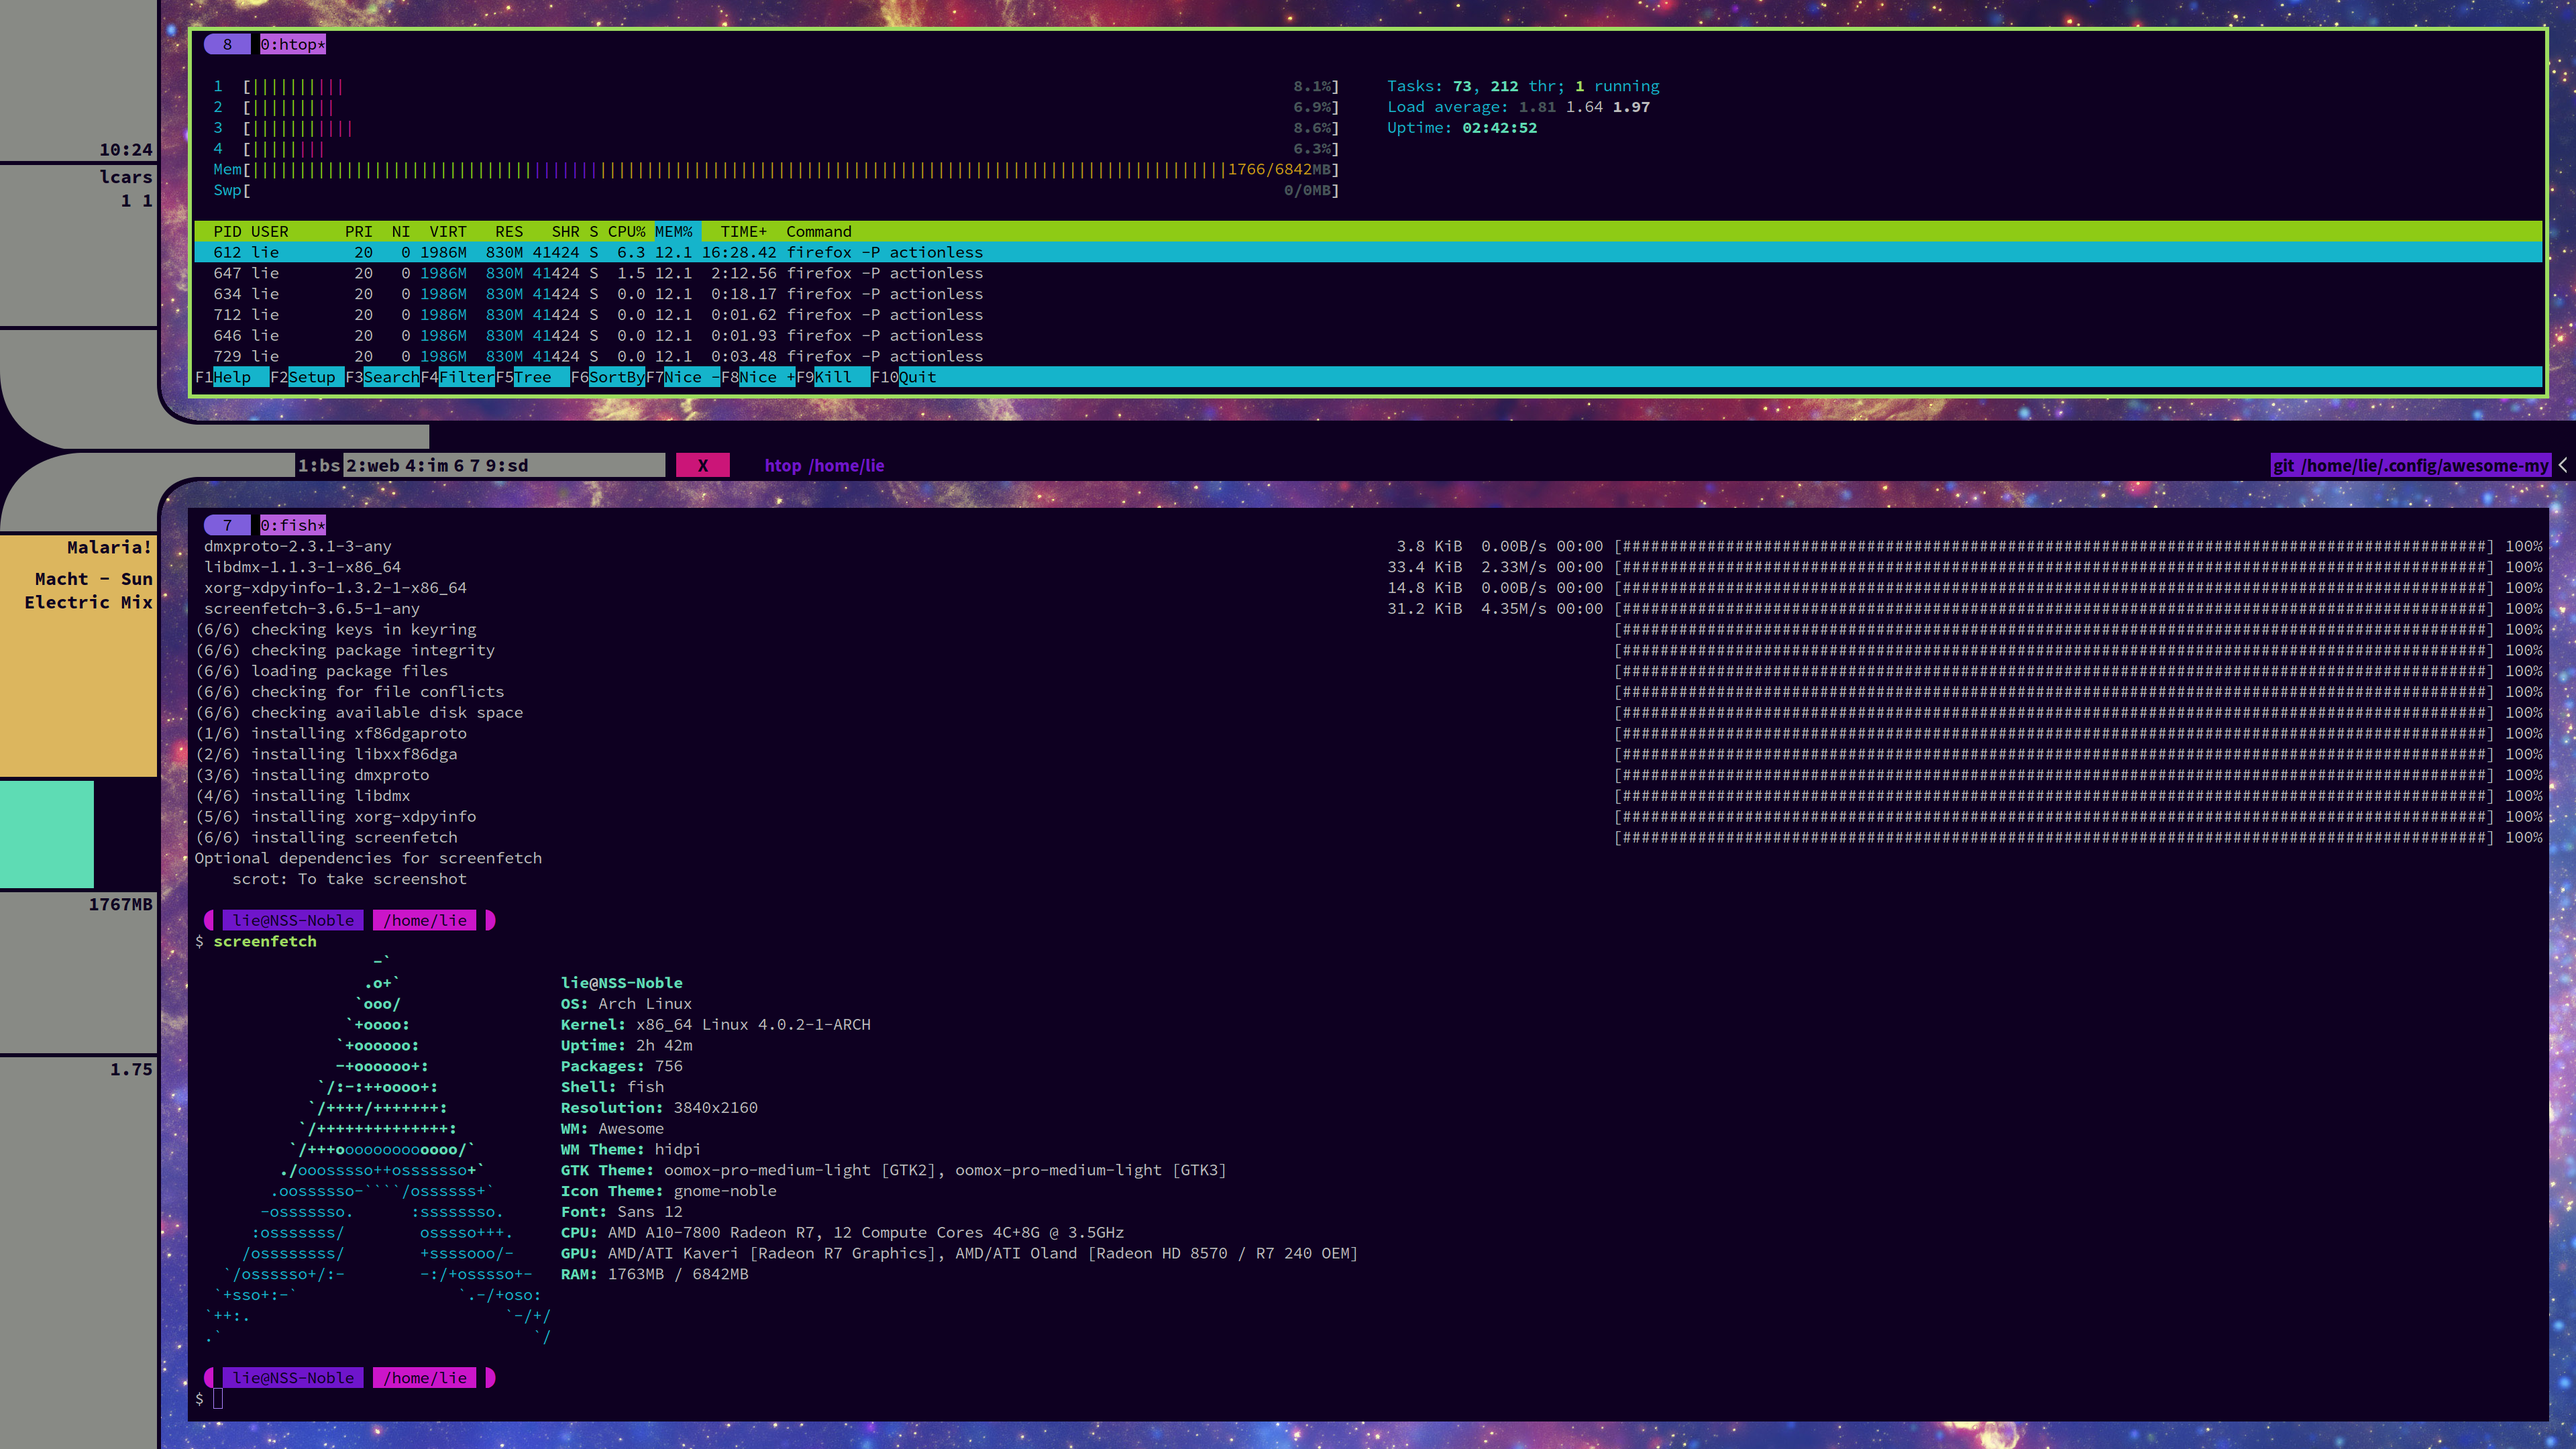
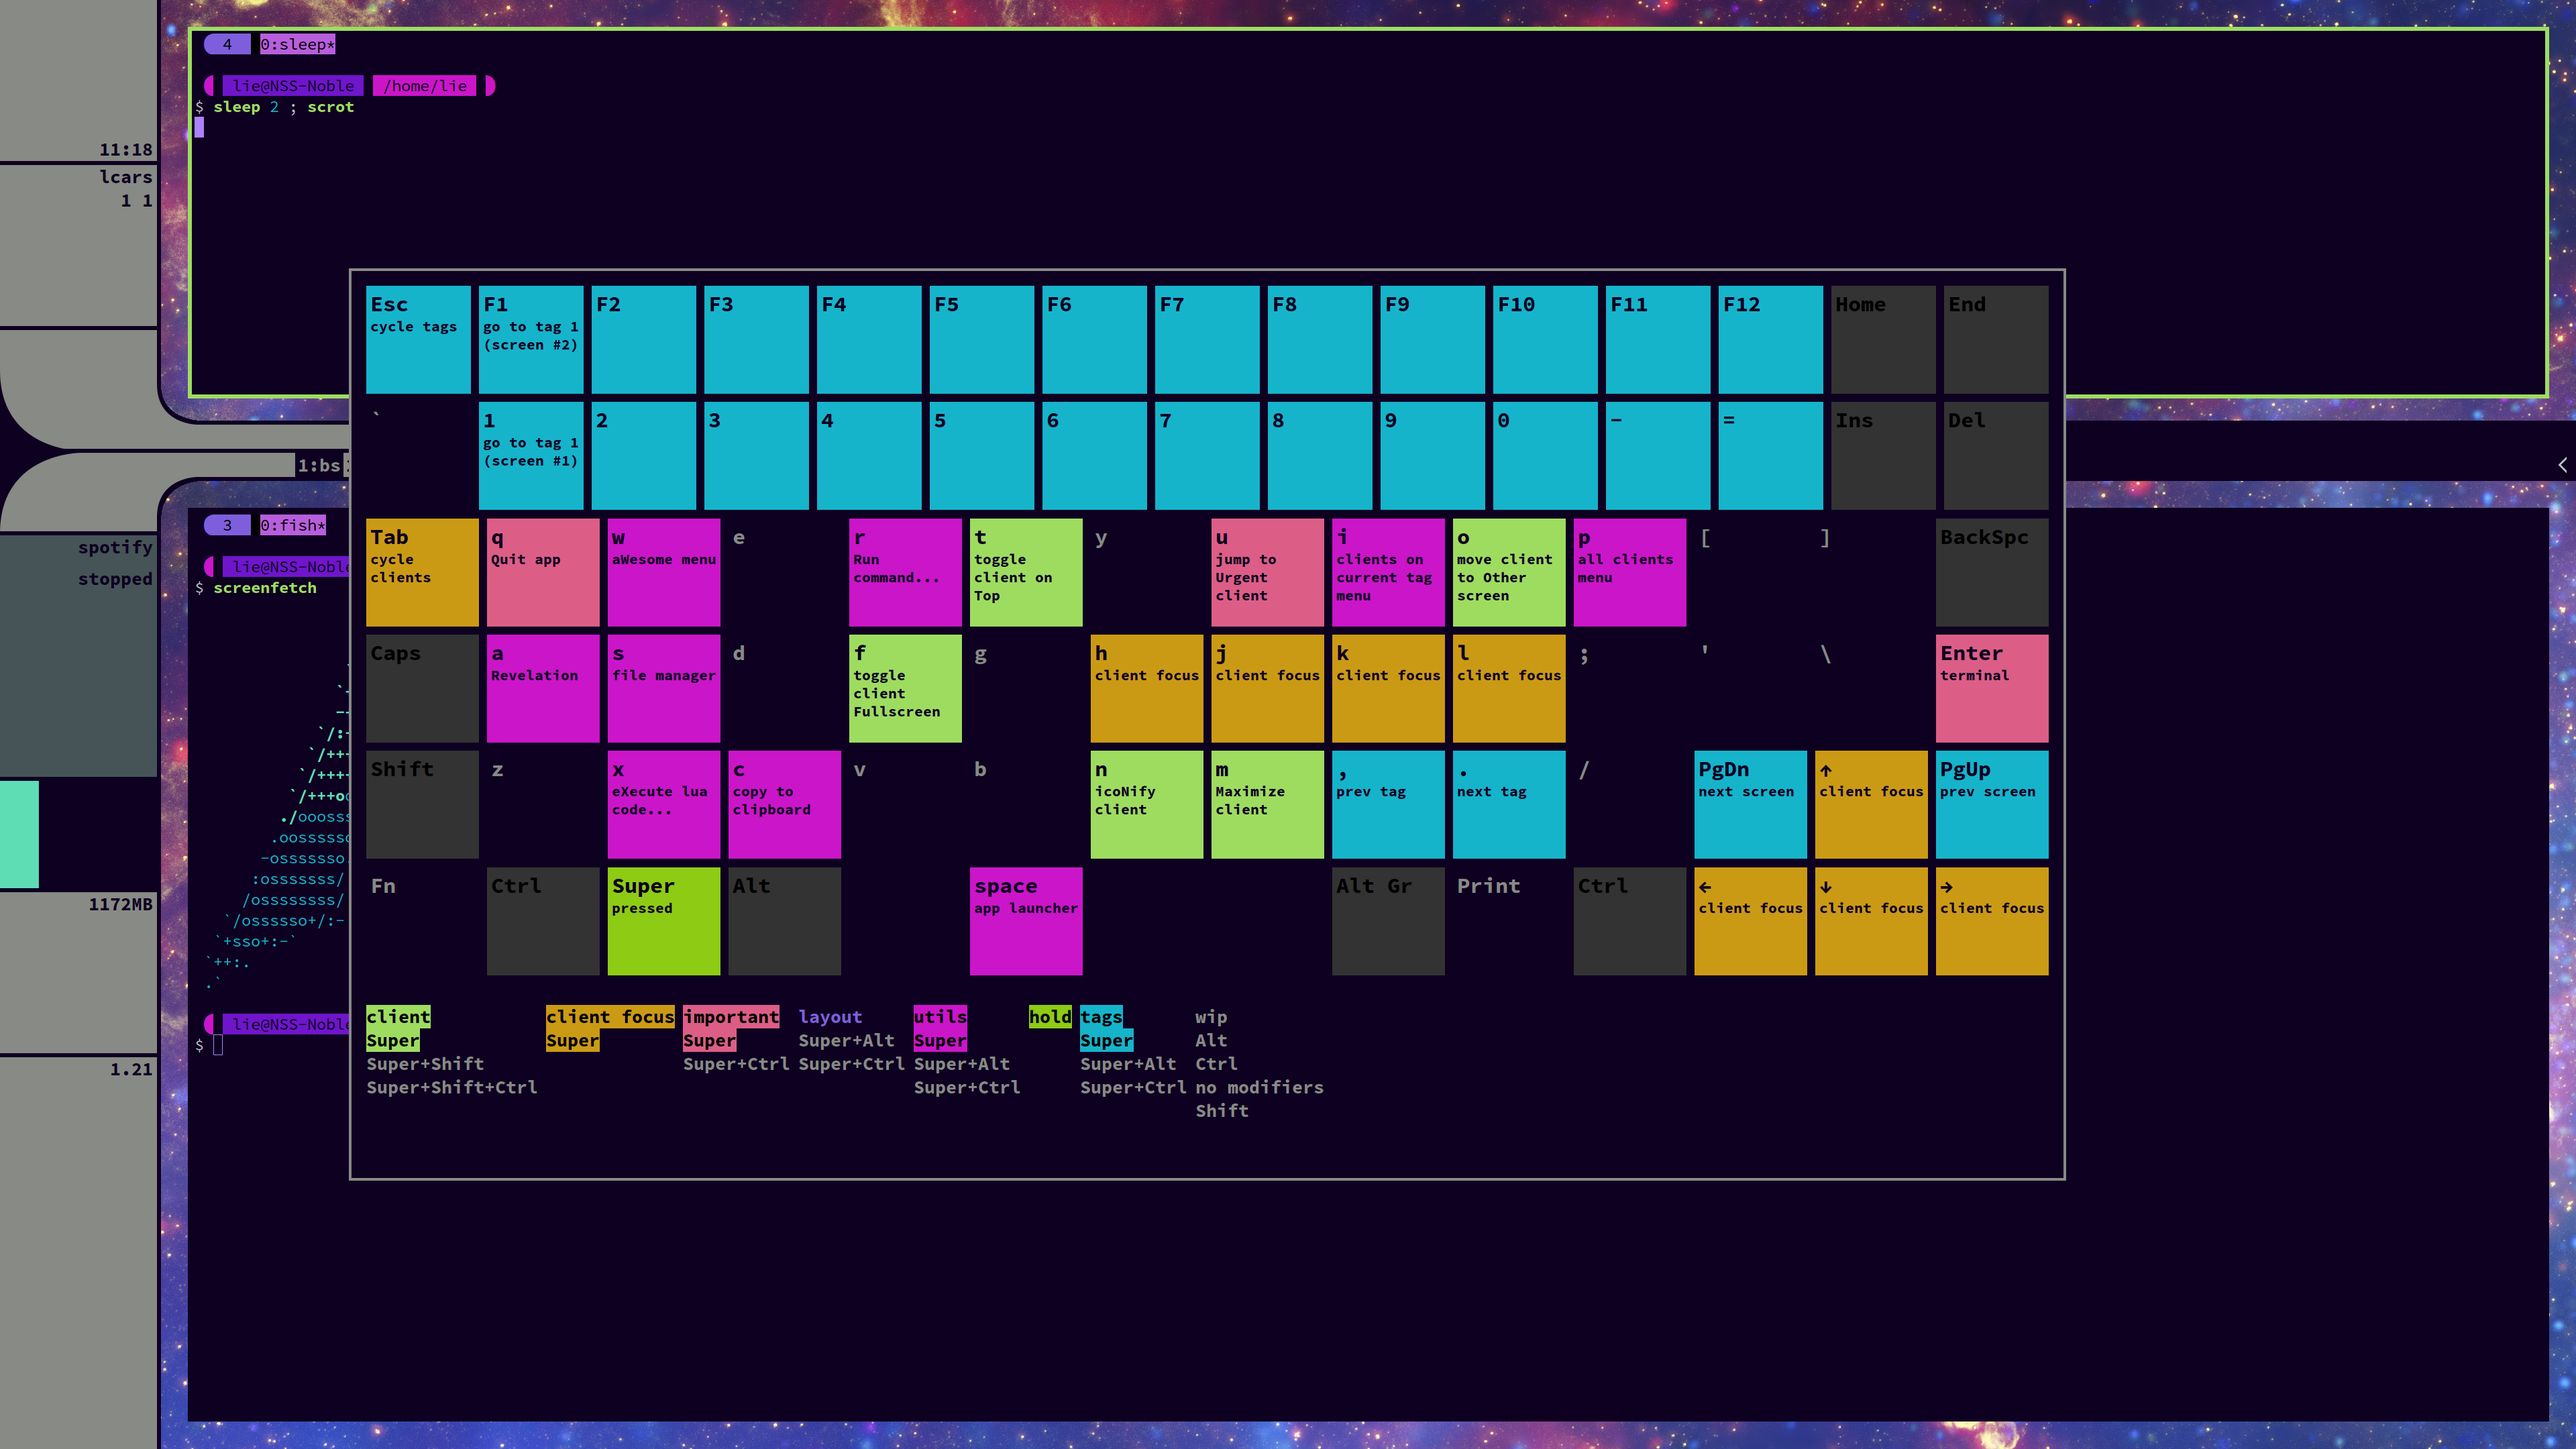
chore: update screenshots again

Changed region(s): [[0.0, 0.031, 1.0, 0.8995], [0.875, 0.3102, 1.0, 0.3412], [0.0625, 0.9306, 0.1875, 0.9616]]

diff --git a/README.md b/README.md
@@ -17,6 +17,10 @@ wget https://gist.githubusercontent.com/actionless/229eef7795915068bad9/raw/08c2
 
 ![Screenshot](https://raw.githubusercontent.com/actionless/awesome_config/devel/screenshots/screenshot.png "Screenshot")
 
+The same screenshot with other colors set in ~/.Xresources:
+
+![Screenshot](https://raw.githubusercontent.com/actionless/awesome_config/devel/screenshots/screenshot_lcars.png "Screenshot")
+
 #### Widget popups
 
 @TODO: upload newer screenshots
